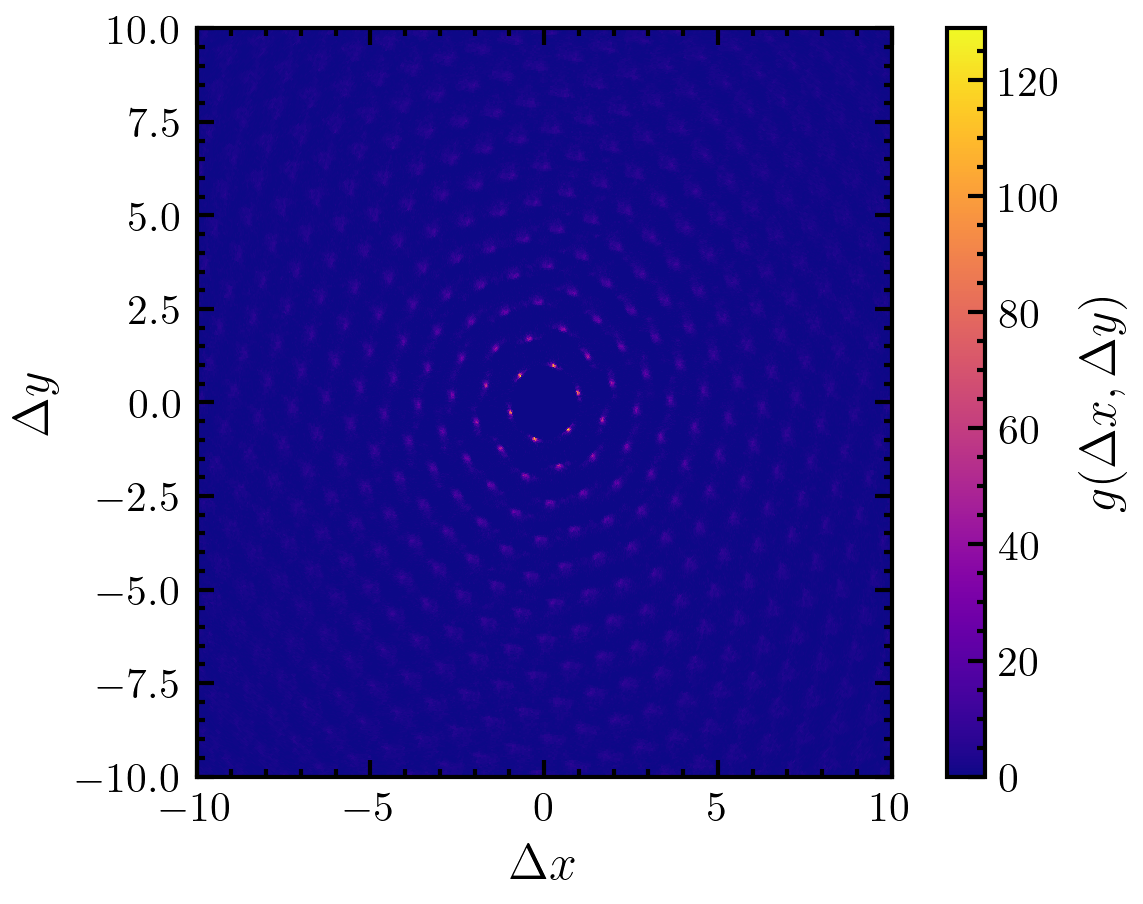
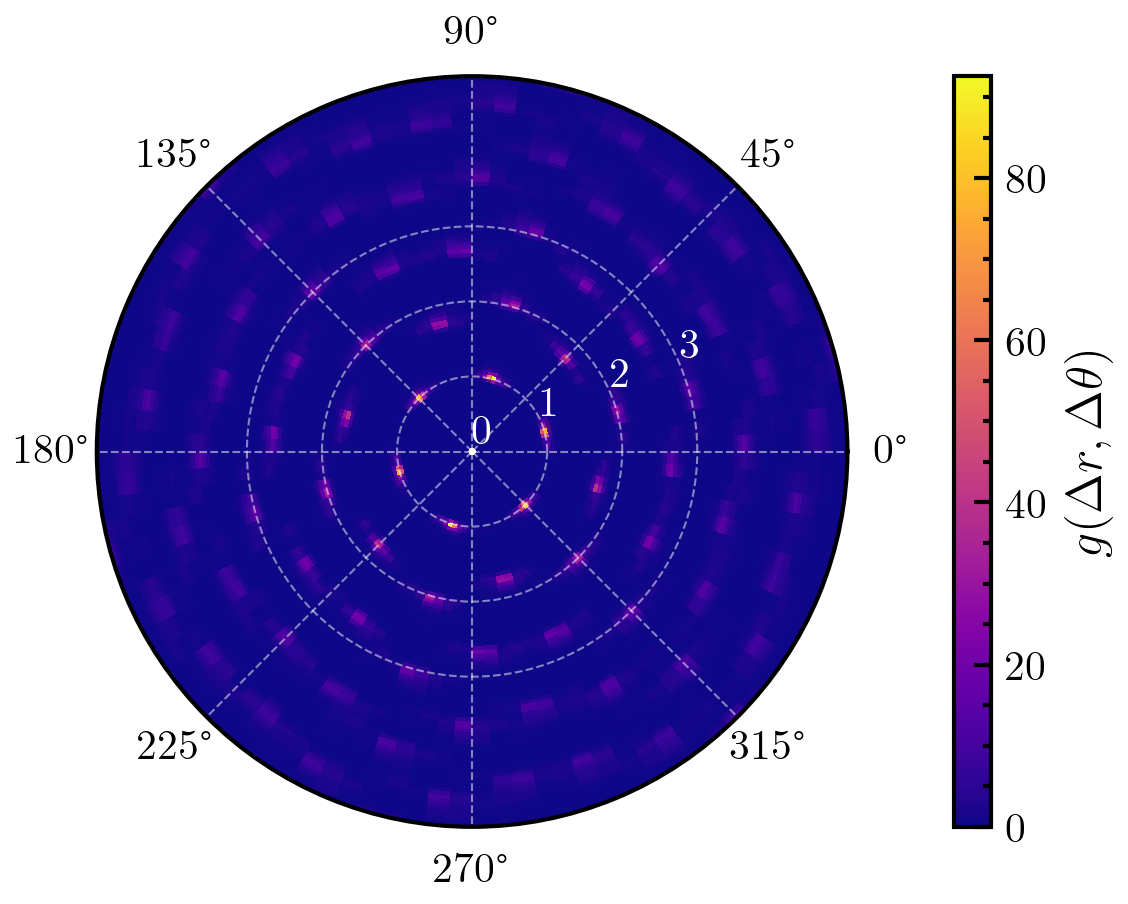
examples to spatialcor.pcfangle added

diff --git a/amep/spatialcor.py b/amep/spatialcor.py
@@ -1142,23 +1142,41 @@ def pcf_angle(
     >>> frame = traj[-1]
     >>> grt, rt, theta = amep.spatialcor.pcf_angle(
     ...     frame.coords(), frame.box, njobs=4,
-    ...     ndbins=1000, nabins=1000
+    ...     ndbins=100, nabins=100, rmax=5
     ... )
-    >>> X = rt*np.cos(theta)
-    >>> Y = rt*np.sin(theta)
-    >>> fig, axs = amep.plot.new(figsize=(3.8,3))
-    >>> mp = amep.plot.field(axs, grt.T, X, Y)
-    >>> cax = amep.plot.add_colorbar(
-    ...     fig, axs, mp, label=r'$g(\Delta x, \Delta y)$'
-    ... )
-    >>> axs.set_xlim(-10,10)
-    >>> axs.set_ylim(-10,10)
-    >>> axs.set_xlabel(r'$\Delta x$')
-    >>> axs.set_ylabel(r'$\Delta y$')
-    >>> fig.savefig('./figures/spatialcor/spatialcor-pcf_angle.png')
-    >>> 
-    
+    >>> fig, axs = amep.plot.new(subplot_kw=dict(projection="polar"))
+    >>> mp = axs.pcolormesh(theta,rt, grt)
+    >>> cax = amep.plot.add_colorbar(fig, axs, mp, 
+    >>> label=r"$g(\Delta r, \Delta \theta)$")
+    >>> axs.grid(alpha=.5, lw=.5, c='w')
+    >>> axs.tick_params(axis='y', colors='white')
+    >>> fig.savefig('spatialcor-pcf_angle.png')
+
     .. image:: /_static/images/spatialcor/spatialcor-pcf_angle.png
+      :width: 400
+      :align: center
+
+    >>> # calculate angular pcf with respect to particle orientations
+    >>> grt, r, t = amep.spatialcor.pcf_angle(
+    ...        frame.coords(),
+    ...        frame.box,
+    ...        psi = None,
+    ...        e=frame.orientations(),
+    ...        nabins=36,
+    ...        rmax=3,
+    ...        ndbins=100
+    ...    )
+    >>> fig, axs = amep.plot.new(subplot_kw=dict(projection="polar"))
+    >>> mp = axs.pcolormesh(t,r, grt)
+    >>> cax = amep.plot.add_colorbar(fig, axs, mp, 
+    >>>        label=r"$g(\Delta r, \Delta \theta)$")
+    >>> axs.grid(alpha=.5, lw=.5, c='w')
+    >>> axs.set_rticks([0,1,2,3])
+    >>> axs.set_rlim(0,1.1)
+    >>> axs.tick_params(axis='y', colors='white')
+    >>> fig.savefig('spatialcor-pcf_angle_2.png')
+
+    .. image:: /_static/images/spatialcor/spatialcor-pcf_angle_2.png
       :width: 400
       :align: center
     
